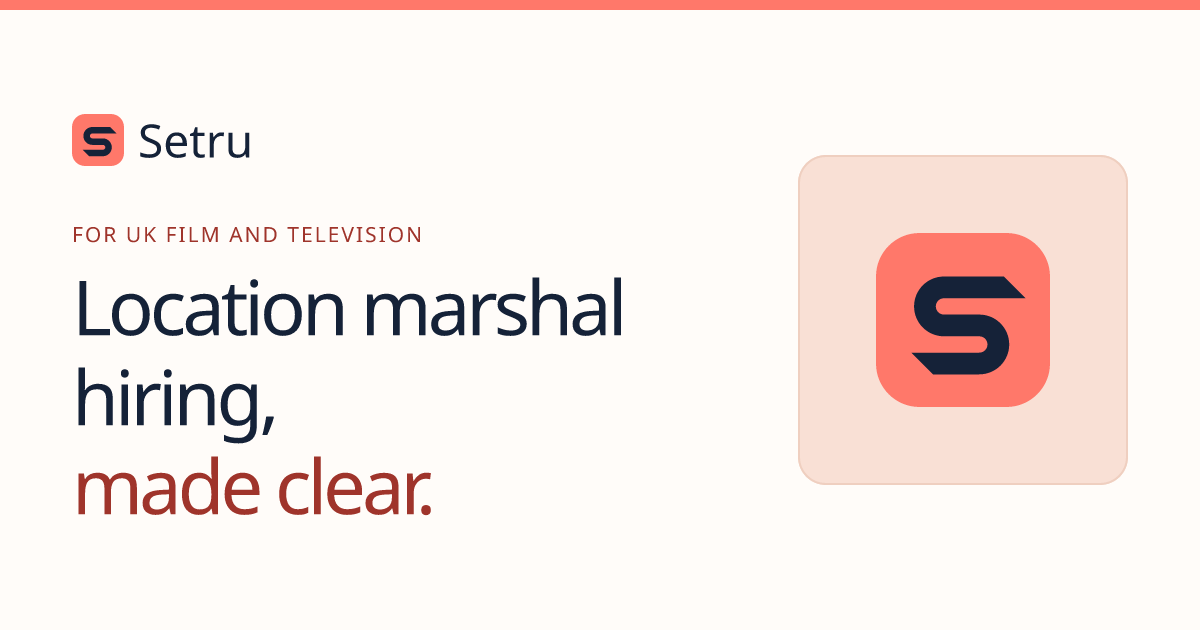
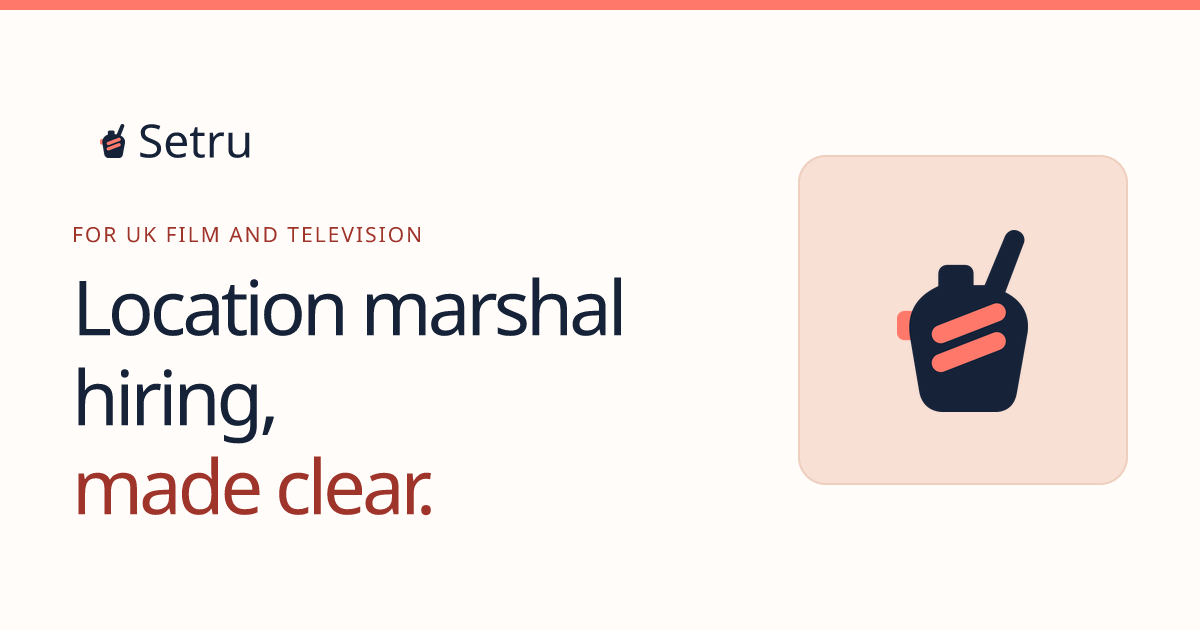
Use the Setru radio mark in headers, browser tabs and link previews

Changed region(s): [[0.7092, 0.3619, 0.8942, 0.6635], [0.0617, 0.181, 0.1233, 0.2714]]

diff --git a/components/BrandLogo.tsx b/components/BrandLogo.tsx
@@ -9,7 +9,7 @@ export function BrandLogo({ className, alt = "Setru" }: { className?: string; al
       aria-label={alt || undefined}
       aria-hidden={alt ? undefined : true}
     >
-      <Image src="/brand/setru-mark.svg" width={28} height={28} alt="" className="brand-logo__mark" unoptimized loading="eager" />
+      <Image src="/brand/setru-mark.svg" width={26} height={36} alt="" className="brand-logo__mark" unoptimized loading="eager" />
       <span>Setru</span>
     </span>
   );

diff --git a/app/layout.tsx b/app/layout.tsx
@@ -32,7 +32,7 @@ export const metadata: Metadata = {
   metadataBase: new URL(process.env.APP_BASE_URL?.trim() || "https://marshalhq.com"),
   title: { default: "Setru", template: "%s | Setru" },
   applicationName: "Setru",
-  icons: { icon: { url: "/brand/setru-mark.svg", type: "image/svg+xml" } },
+  icons: { icon: { url: "/brand/setru-radio-favicon.svg", type: "image/svg+xml" } },
   description:
     "A clearer way to hire location marshals for UK film and TV production.",
 };

diff --git a/app/globals.css b/app/globals.css
@@ -68,11 +68,12 @@ label {
 }
 
 .brand-logo {
-  @apply inline-flex shrink-0 items-center gap-2 whitespace-nowrap text-[1.5rem] font-extrabold leading-none tracking-[-0.065em] text-ink;
+  @apply inline-flex shrink-0 items-baseline gap-1 whitespace-nowrap text-[1.5rem] font-extrabold leading-none tracking-[-0.065em] text-ink;
 }
 
 .brand-logo__mark {
-  @apply size-7 shrink-0;
+  @apply w-auto shrink-0;
+  height: 0.78em;
 }
 
 .brand-link,
